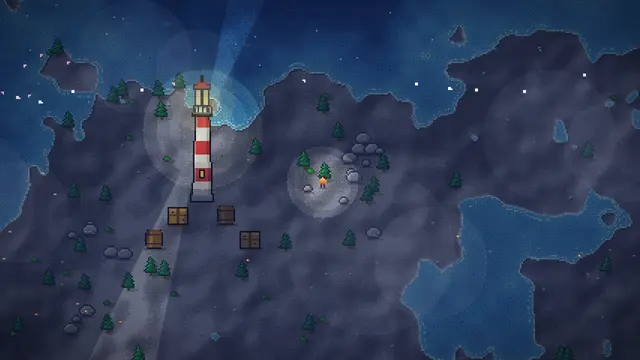
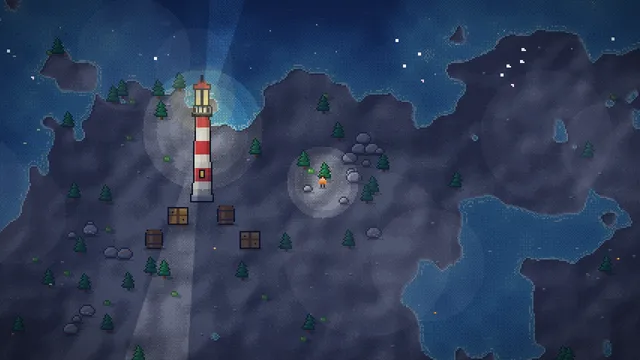
갤러리 Beaconfall 사진 교체와 7장 추가 (#112)

diff --git a/gallery/index.html b/gallery/index.html
@@ -478,7 +478,7 @@ if(document.readyState==='loading') document.addEventListener('DOMContentLoaded'
   <div class="gl-lb" id="glLb" hidden><button type="button" class="x" aria-label="닫기">×</button><button type="button" class="nv p" aria-label="‹">‹</button><img alt=""><div class="cap" data-notr><b></b><p></p></div><button type="button" class="nv n" aria-label="›">›</button></div>
   <script>
   (function(){
-    var D=[{"g": "stickseum", "id": "card-stickseum", "t": {"ko": ["스틱맨 결투", "최대 32명이 한 맵에서 싸우는 실시간 스틱맨 대전이에요."], "en": ["Stickman Duel", "Real-time stickman battles with up to 32 players on one map."], "es": ["Duelo de stickmen", "Batallas de stickmen en tiempo real con hasta 32 jugadores en un mapa."], "fr": ["Duel de bonshommes", "Combats de bonshommes en temps réel, jusqu’à 32 joueurs sur une carte."], "de": ["Strichmännchen-Duell", "Echtzeit-Kämpfe mit bis zu 32 Spielern auf einer Karte."], "ja": ["棒人間の決闘", "最大32人がひとつのマップで戦うリアルタイム対戦です。"]}}, {"g": "stickseum", "id": "stk-14", "t": {"ko": ["궁극기 폭발", "난전 한가운데서 궁극기가 터지는 순간이에요."], "en": ["Ultimate Blast", "An ultimate goes off in the middle of the brawl."], "es": ["Explosión definitiva", "Una habilidad definitiva estalla en plena pelea."], "fr": ["Explosion ultime", "Une capacité ultime explose au milieu de la mêlée."], "de": ["Ultimative Explosion", "Mitten im Getümmel zündet eine Ultimate."], "ja": ["必殺技の爆発", "乱戦のまっただ中で必殺技がはじける瞬間です。"]}}, {"g": "stickseum", "id": "stk-18", "t": {"ko": ["발판 위 공중전", "발판을 오르내리며 총알과 화살이 오가요."], "en": ["Battle on the Platforms", "Bullets and arrows fly as fighters jump between platforms."], "es": ["Batalla en las plataformas", "Balas y flechas vuelan mientras saltan entre plataformas."], "fr": ["Combat sur les plateformes", "Balles et flèches fusent entre les plateformes."], "de": ["Kampf auf den Plattformen", "Zwischen den Plattformen fliegen Kugeln und Pfeile."], "ja": ["足場の上の空中戦", "足場を飛び移りながら弾と矢が飛び交います。"]}}, {"g": "crownenvoy", "id": "ce-map", "t": {"ko": ["유럽 전역 지도", "외교와 전쟁으로 영토를 넓혀 가는 턴제 전략 지도예요."], "en": ["Map of Europe", "The turn-based strategy map where diplomacy and war expand your borders."], "es": ["Mapa de Europa", "El mapa de estrategia por turnos donde la diplomacia y la guerra amplían tus fronteras."], "fr": ["Carte de l’Europe", "La carte de stratégie au tour par tour où diplomatie et guerre étendent vos frontières."], "de": ["Karte Europas", "Die rundenbasierte Strategiekarte, auf der Diplomatie und Krieg deine Grenzen erweitern."], "ja": ["ヨーロッパ全図", "外交と戦争で領土を広げるターン制戦略のマップです。"]}}, {"g": "crownenvoy", "id": "ce-sword", "t": {"ko": ["검의 시대 전투", "칼과 방패를 든 병사들이 정면으로 맞부딪혀요."], "en": ["Battle of the Sword Age", "Soldiers with swords and shields clash head-on."], "es": ["Batalla de la era de la espada", "Soldados con espada y escudo chocan de frente."], "fr": ["Bataille de l’âge de l’épée", "Des soldats armés d’épées et de boucliers s’affrontent de face."], "de": ["Schlacht im Schwertzeitalter", "Soldaten mit Schwert und Schild prallen frontal aufeinander."], "ja": ["剣の時代の戦い", "剣と盾を持った兵士が正面からぶつかります。"]}}, {"g": "crownenvoy", "id": "ce-musket", "t": {"ko": ["머스킷의 시대", "대열을 갖춘 머스킷 병과 대포가 연기를 뿜어요."], "en": ["Age of the Musket", "Musket lines and cannons fill the field with smoke."], "es": ["La era del mosquete", "Filas de mosqueteros y cañones llenan el campo de humo."], "fr": ["L’ère du mousquet", "Lignes de mousquetaires et canons noient le champ de fumée."], "de": ["Zeitalter der Muskete", "Musketenreihen und Kanonen hüllen das Feld in Rauch."], "ja": ["マスケットの時代", "隊列を組んだマスケット兵と大砲が煙を上げます。"]}}, {"g": "crownenvoy", "id": "ce-ww2", "t": {"ko": ["세계대전 전장", "전차와 전투기가 하늘과 땅을 가득 메워요."], "en": ["World War Battlefield", "Tanks and fighter planes fill the land and the sky."], "es": ["Campo de batalla mundial", "Tanques y cazas llenan la tierra y el cielo."], "fr": ["Champ de bataille mondial", "Chars et avions de chasse envahissent la terre et le ciel."], "de": ["Weltkriegs-Schlachtfeld", "Panzer und Jagdflugzeuge füllen Land und Himmel."], "ja": ["世界大戦の戦場", "戦車と戦闘機が空と大地を埋め尽くします。"]}}, {"g": "beaconfall", "id": "card-beaconfall", "t": {"ko": ["섬들의 바다", "여러 섬을 오가며 살아남는 생존 제작 게임의 세계예요."], "en": ["A Sea of Islands", "The world of a survival crafting game where you travel between islands."], "es": ["Un mar de islas", "El mundo de un juego de supervivencia y fabricación entre islas."], "fr": ["Une mer d’îles", "Le monde d’un jeu de survie et d’artisanat d’île en île."], "de": ["Ein Meer aus Inseln", "Die Welt eines Survival-Crafting-Spiels zwischen vielen Inseln."], "ja": ["島々の海", "島から島へ渡って生き延びるサバイバルクラフトの世界です。"]}}, {"g": "beaconfall", "id": "bf-whale", "t": {"ko": ["바다의 고래", "깊은 바다를 천천히 가로지르다가 가끔 떠올라 물줄기를 뿜어요."], "en": ["Whale of the Sea", "It glides slowly through the deep sea and sometimes surfaces to spout water."], "fr": ["Baleine de la mer", "Elle traverse lentement les eaux profondes et remonte parfois pour souffler un jet d'eau."], "de": ["Wal im Meer", "Er gleitet langsam durch die Tiefsee und taucht manchmal auf, um Wasser zu spritzen."], "es": ["Ballena del mar", "Cruza despacio el mar profundo y a veces sale a la superficie para soltar un chorro de agua."], "ja": ["海のクジラ", "深い海をゆっくり泳ぎ、ときどき浮かび上がって潮を吹きます。"]}}, {"g": "beaconfall", "id": "bf-skywhale", "t": {"ko": ["하늘 고래", "구름 위를 헤엄치는 거대한 고래의 그림자가 땅 위로 지나가요."], "en": ["Sky Whale", "The shadow of a huge whale swimming above the clouds passes over the land."], "fr": ["Baleine du ciel", "L'ombre d'une immense baleine nageant au-dessus des nuages glisse sur la terre."], "de": ["Himmelswal", "Der Schatten eines riesigen Wals über den Wolken zieht über das Land."], "es": ["Ballena del cielo", "La sombra de una enorme ballena que nada sobre las nubes pasa sobre la tierra."], "ja": ["空のクジラ", "雲の上を泳ぐ巨大なクジラの影が、大地の上を横切ります。"]}}, {"g": "beaconfall", "id": "bf-temple", "t": {"ko": ["거대한 신전 유적", "높은 기둥 줄과 거인상, 제단이 있는 큰 섬의 신전이에요. 안쪽에 보물 상자가 숨어 있어요."], "en": ["Giant Temple Ruin", "A temple on a large island with rows of tall columns, colossus statues and an altar. A treasure chest hides inside."], "fr": ["Ruine de temple géant", "Un temple sur une grande île, avec des rangées de hautes colonnes, des statues colossales et un autel. Un coffre au trésor y est caché."], "de": ["Riesige Tempelruine", "Ein Tempel auf einer großen Insel mit hohen Säulenreihen, Kolossalstatuen und einem Altar. Drinnen versteckt sich eine Schatztruhe."], "es": ["Ruina de templo gigante", "Un templo en una isla grande con filas de columnas altas, estatuas colosales y un altar. Dentro se esconde un cofre del tesoro."], "ja": ["巨大な神殿の遺跡", "高い柱の列、巨人像、祭壇がある大きな島の神殿です。奥に宝箱が隠れています。"]}}, {"g": "beaconfall", "id": "bf-lighthouse", "t": {"ko": ["등대의 밤", "해안의 등대가 밤마다 빛줄기로 바다를 돌며 비춰요."], "en": ["Lighthouse at Night", "The coastal lighthouse sweeps its beam over the sea every night."], "fr": ["Le phare la nuit", "Le phare de la côte balaie la mer de son faisceau chaque nuit."], "de": ["Leuchtturm bei Nacht", "Der Küstenleuchtturm lässt jede Nacht seinen Lichtstrahl über das Meer streichen."], "es": ["El faro de noche", "El faro de la costa barre el mar con su haz de luz cada noche."], "ja": ["夜の灯台", "海岸の灯台が、夜になると光の筋で海を回って照らします。"]}}, {"g": "beaconfall", "id": "bf-volcano", "t": {"ko": ["화산 분출", "땅이 울린 뒤 화산재 기둥과 용암 덩어리가 솟아올라요."], "en": ["Volcano Eruption", "After the ground rumbles, an ash column and lava bombs shoot into the sky."], "fr": ["Éruption volcanique", "Après un grondement du sol, une colonne de cendres et des bombes de lave jaillissent."], "de": ["Vulkanausbruch", "Nach einem Beben steigen eine Aschesäule und Lavabomben empor."], "es": ["Erupción volcánica", "Tras el temblor del suelo, una columna de ceniza y bombas de lava salen disparadas."], "ja": ["火山の噴火", "地鳴りのあと、火山灰の柱と溶岩の塊が噴き上がります。"]}}, {"g": "beaconfall", "id": "bf-fossil", "t": {"ko": ["고래 뼈 화석", "사막 섬에 묻혀 있던 거대한 고래의 뼈예요."], "en": ["Whale Fossil", "The bones of a giant whale buried on a desert island."], "fr": ["Fossile de baleine", "Les os d'une baleine géante enfouis sur une île désertique."], "de": ["Wal-Fossil", "Die Knochen eines Riesenwals, begraben auf einer Wüsteninsel."], "es": ["Fósil de ballena", "Los huesos de una ballena gigante enterrados en una isla desértica."], "ja": ["クジラの化石", "砂漠の島に埋まっていた巨大なクジラの骨です。"]}}, {"g": "beaconfall", "id": "bf-parts", "t": {"ko": ["대형 건축 부품", "대형 기둥, 아치문, 첨탑, 석재벽돌로 지은 성문이에요."], "en": ["Large Building Parts", "A castle gate built from great pillars, archways, spires and stone bricks."], "fr": ["Grandes pièces de construction", "Une porte de château bâtie avec de grands piliers, des arches, des flèches et des briques de pierre."], "de": ["Große Bauteile", "Ein Burgtor aus großen Pfeilern, Torbögen, Turmspitzen und Steinziegeln."], "es": ["Piezas de construcción grandes", "Una puerta de castillo hecha con grandes pilares, arcos, agujas y ladrillos de piedra."], "ja": ["大型の建築パーツ", "大きな柱、アーチ門、尖塔、石レンガで建てた城門です。"]}}], N={"stickseum": "Stickseum", "crownenvoy": "Crown Envoy", "beaconfall": "Beaconfall"};
+    var D=[{"g": "stickseum", "id": "card-stickseum", "t": {"ko": ["스틱맨 결투", "최대 32명이 한 맵에서 싸우는 실시간 스틱맨 대전이에요."], "en": ["Stickman Duel", "Real-time stickman battles with up to 32 players on one map."], "es": ["Duelo de stickmen", "Batallas de stickmen en tiempo real con hasta 32 jugadores en un mapa."], "fr": ["Duel de bonshommes", "Combats de bonshommes en temps réel, jusqu’à 32 joueurs sur une carte."], "de": ["Strichmännchen-Duell", "Echtzeit-Kämpfe mit bis zu 32 Spielern auf einer Karte."], "ja": ["棒人間の決闘", "最大32人がひとつのマップで戦うリアルタイム対戦です。"]}}, {"g": "stickseum", "id": "stk-14", "t": {"ko": ["궁극기 폭발", "난전 한가운데서 궁극기가 터지는 순간이에요."], "en": ["Ultimate Blast", "An ultimate goes off in the middle of the brawl."], "es": ["Explosión definitiva", "Una habilidad definitiva estalla en plena pelea."], "fr": ["Explosion ultime", "Une capacité ultime explose au milieu de la mêlée."], "de": ["Ultimative Explosion", "Mitten im Getümmel zündet eine Ultimate."], "ja": ["必殺技の爆発", "乱戦のまっただ中で必殺技がはじける瞬間です。"]}}, {"g": "stickseum", "id": "stk-18", "t": {"ko": ["발판 위 공중전", "발판을 오르내리며 총알과 화살이 오가요."], "en": ["Battle on the Platforms", "Bullets and arrows fly as fighters jump between platforms."], "es": ["Batalla en las plataformas", "Balas y flechas vuelan mientras saltan entre plataformas."], "fr": ["Combat sur les plateformes", "Balles et flèches fusent entre les plateformes."], "de": ["Kampf auf den Plattformen", "Zwischen den Plattformen fliegen Kugeln und Pfeile."], "ja": ["足場の上の空中戦", "足場を飛び移りながら弾と矢が飛び交います。"]}}, {"g": "crownenvoy", "id": "ce-map", "t": {"ko": ["유럽 전역 지도", "외교와 전쟁으로 영토를 넓혀 가는 턴제 전략 지도예요."], "en": ["Map of Europe", "The turn-based strategy map where diplomacy and war expand your borders."], "es": ["Mapa de Europa", "El mapa de estrategia por turnos donde la diplomacia y la guerra amplían tus fronteras."], "fr": ["Carte de l’Europe", "La carte de stratégie au tour par tour où diplomatie et guerre étendent vos frontières."], "de": ["Karte Europas", "Die rundenbasierte Strategiekarte, auf der Diplomatie und Krieg deine Grenzen erweitern."], "ja": ["ヨーロッパ全図", "外交と戦争で領土を広げるターン制戦略のマップです。"]}}, {"g": "crownenvoy", "id": "ce-sword", "t": {"ko": ["검의 시대 전투", "칼과 방패를 든 병사들이 정면으로 맞부딪혀요."], "en": ["Battle of the Sword Age", "Soldiers with swords and shields clash head-on."], "es": ["Batalla de la era de la espada", "Soldados con espada y escudo chocan de frente."], "fr": ["Bataille de l’âge de l’épée", "Des soldats armés d’épées et de boucliers s’affrontent de face."], "de": ["Schlacht im Schwertzeitalter", "Soldaten mit Schwert und Schild prallen frontal aufeinander."], "ja": ["剣の時代の戦い", "剣と盾を持った兵士が正面からぶつかります。"]}}, {"g": "crownenvoy", "id": "ce-musket", "t": {"ko": ["머스킷의 시대", "대열을 갖춘 머스킷 병과 대포가 연기를 뿜어요."], "en": ["Age of the Musket", "Musket lines and cannons fill the field with smoke."], "es": ["La era del mosquete", "Filas de mosqueteros y cañones llenan el campo de humo."], "fr": ["L’ère du mousquet", "Lignes de mousquetaires et canons noient le champ de fumée."], "de": ["Zeitalter der Muskete", "Musketenreihen und Kanonen hüllen das Feld in Rauch."], "ja": ["マスケットの時代", "隊列を組んだマスケット兵と大砲が煙を上げます。"]}}, {"g": "crownenvoy", "id": "ce-ww2", "t": {"ko": ["세계대전 전장", "전차와 전투기가 하늘과 땅을 가득 메워요."], "en": ["World War Battlefield", "Tanks and fighter planes fill the land and the sky."], "es": ["Campo de batalla mundial", "Tanques y cazas llenan la tierra y el cielo."], "fr": ["Champ de bataille mondial", "Chars et avions de chasse envahissent la terre et le ciel."], "de": ["Weltkriegs-Schlachtfeld", "Panzer und Jagdflugzeuge füllen Land und Himmel."], "ja": ["世界大戦の戦場", "戦車と戦闘機が空と大地を埋め尽くします。"]}}, {"g": "beaconfall", "id": "card-beaconfall", "t": {"ko": ["섬들의 바다", "여러 섬을 오가며 살아남는 생존 제작 게임의 세계예요."], "en": ["A Sea of Islands", "The world of a survival crafting game where you travel between islands."], "es": ["Un mar de islas", "El mundo de un juego de supervivencia y fabricación entre islas."], "fr": ["Une mer d’îles", "Le monde d’un jeu de survie et d’artisanat d’île en île."], "de": ["Ein Meer aus Inseln", "Die Welt eines Survival-Crafting-Spiels zwischen vielen Inseln."], "ja": ["島々の海", "島から島へ渡って生き延びるサバイバルクラフトの世界です。"]}}, {"g": "beaconfall", "id": "bf-sky-fortress", "t": {"ko": ["하늘 요새", "열기구를 타고 노을 속에 떠 있는 요새로 향해요."], "en": ["Sky Fortress", "A hot-air balloon heads for the fortress floating in the sunset."], "es": ["Fortaleza del cielo", "Un globo aerostático se dirige a la fortaleza que flota en el atardecer."], "fr": ["Forteresse céleste", "Une montgolfière file vers la forteresse flottant dans le couchant."], "de": ["Himmelsfestung", "Ein Heißluftballon fliegt auf die im Abendrot schwebende Festung zu."], "ja": ["空の要塞", "気球に乗って、夕焼けに浮かぶ要塞へ向かいます。"]}}, {"g": "beaconfall", "id": "bf-fortress-dock", "t": {"ko": ["하늘 요새 정문", "열기구에서 내리면 요새의 정문과 선착장이 나와요."], "en": ["Fortress Gate", "Step off the balloon to find the fortress gate and its dock."], "es": ["Puerta de la fortaleza", "Al bajar del globo aparecen la puerta de la fortaleza y su muelle."], "fr": ["Porte de la forteresse", "En descendant de la montgolfière, on trouve la porte et le quai de la forteresse."], "de": ["Festungstor", "Nach dem Ballon erreicht man das Tor der Festung und ihren Anleger."], "ja": ["要塞の正門", "気球を降りると、要塞の正門と船着き場があります。"]}}, {"g": "beaconfall", "id": "bf-fortress-hall", "t": {"ko": ["요새의 큰 홀", "스테인드글라스와 깃발, 크리스털이 늘어선 하늘 요새의 홀이에요."], "en": ["Great Hall of the Fortress", "The sky fortress hall lined with stained glass, banners and crystals."], "es": ["Gran salón de la fortaleza", "El salón de la fortaleza del cielo, con vidrieras, estandartes y cristales."], "fr": ["Grande salle de la forteresse", "La salle de la forteresse céleste, ornée de vitraux, de bannières et de cristaux."], "de": ["Große Halle der Festung", "Die Halle der Himmelsfestung mit Buntglas, Fahnen und Kristallen."], "ja": ["要塞の大広間", "ステンドグラスと旗、クリスタルが並ぶ空の要塞の広間です。"]}}, {"g": "beaconfall", "id": "bf-ruin-palace", "t": {"ko": ["폐허 섬의 옛 궁전", "덩굴과 쓰러진 기둥 사이로 깃발과 옥좌가 남은 안뜰이에요."], "en": ["Old Palace of Ruin Island", "A courtyard where a throne and banners remain among vines and fallen pillars."], "es": ["Antiguo palacio de la isla en ruinas", "Un patio donde quedan un trono y estandartes entre enredaderas y columnas caídas."], "fr": ["Ancien palais de l’île en ruine", "Une cour où subsistent un trône et des bannières parmi les lianes et les piliers brisés."], "de": ["Alter Palast der Ruineninsel", "Ein Innenhof, in dem zwischen Ranken und umgestürzten Säulen Thron und Fahnen stehen."], "ja": ["廃墟島の古い宮殿", "つると倒れた柱の間に、旗と玉座が残る中庭です。"]}}, {"g": "beaconfall", "id": "bf-ruin-village", "t": {"ko": ["폐허 마을", "지붕 없이 허물어진 집들이 이른 아침 햇살에 드러나요."], "en": ["Ruined Village", "Roofless, crumbled houses lit by the early morning sun."], "es": ["Aldea en ruinas", "Casas derruidas y sin techo bajo el sol de la mañana."], "fr": ["Village en ruine", "Des maisons effondrées, sans toit, sous le soleil du petit matin."], "de": ["Ruinendorf", "Eingestürzte Häuser ohne Dach im frühen Morgenlicht."], "ja": ["廃墟の村", "屋根のない崩れた家々が、早朝の光に浮かびます。"]}}, {"g": "beaconfall", "id": "bf-skyisle", "t": {"ko": ["하늘 섬", "깊은 하늘 한가운데 작은 섬이 떠 있어요."], "en": ["Sky Island", "A tiny island floats in the middle of the deep sky."], "es": ["Isla del cielo", "Una pequeña isla flota en medio del cielo profundo."], "fr": ["Île céleste", "Une petite île flotte au beau milieu du ciel profond."], "de": ["Himmelsinsel", "Mitten im tiefen Himmel schwebt eine kleine Insel."], "ja": ["空の島", "深い空のまん中に小さな島が浮かんでいます。"]}}, {"g": "beaconfall", "id": "bf-autumn", "t": {"ko": ["가을 숲", "계절이 바뀌면 숲도 단풍으로 물들어요."], "en": ["Autumn Forest", "When the season turns, the forest takes on autumn colors."], "es": ["Bosque de otoño", "Al cambiar la estación, el bosque se tiñe de otoño."], "fr": ["Forêt d’automne", "Quand la saison change, la forêt prend les couleurs de l’automne."], "de": ["Herbstwald", "Wenn die Jahreszeit wechselt, färbt sich der Wald herbstlich."], "ja": ["秋の森", "季節が変わると、森も紅葉に染まります。"]}}, {"g": "beaconfall", "id": "bf-whale", "t": {"ko": ["바다의 고래", "깊은 바다를 천천히 가로지르다가 가끔 떠올라 물줄기를 뿜어요."], "en": ["Whale of the Sea", "It glides slowly through the deep sea and sometimes surfaces to spout water."], "fr": ["Baleine de la mer", "Elle traverse lentement les eaux profondes et remonte parfois pour souffler un jet d'eau."], "de": ["Wal im Meer", "Er gleitet langsam durch die Tiefsee und taucht manchmal auf, um Wasser zu spritzen."], "es": ["Ballena del mar", "Cruza despacio el mar profundo y a veces sale a la superficie para soltar un chorro de agua."], "ja": ["海のクジラ", "深い海をゆっくり泳ぎ、ときどき浮かび上がって潮を吹きます。"]}}, {"g": "beaconfall", "id": "bf-skywhale", "t": {"ko": ["하늘 고래", "구름 위를 헤엄치는 거대한 고래의 그림자가 땅 위로 지나가요."], "en": ["Sky Whale", "The shadow of a huge whale swimming above the clouds passes over the land."], "fr": ["Baleine du ciel", "L'ombre d'une immense baleine nageant au-dessus des nuages glisse sur la terre."], "de": ["Himmelswal", "Der Schatten eines riesigen Wals über den Wolken zieht über das Land."], "es": ["Ballena del cielo", "La sombra de una enorme ballena que nada sobre las nubes pasa sobre la tierra."], "ja": ["空のクジラ", "雲の上を泳ぐ巨大なクジラの影が、大地の上を横切ります。"]}}, {"g": "beaconfall", "id": "bf-temple", "t": {"ko": ["거대한 신전 유적", "높은 기둥 줄과 거인상, 제단이 있는 큰 섬의 신전이에요. 안쪽에 보물 상자가 숨어 있어요."], "en": ["Giant Temple Ruin", "A temple on a large island with rows of tall columns, colossus statues and an altar. A treasure chest hides inside."], "fr": ["Ruine de temple géant", "Un temple sur une grande île, avec des rangées de hautes colonnes, des statues colossales et un autel. Un coffre au trésor y est caché."], "de": ["Riesige Tempelruine", "Ein Tempel auf einer großen Insel mit hohen Säulenreihen, Kolossalstatuen und einem Altar. Drinnen versteckt sich eine Schatztruhe."], "es": ["Ruina de templo gigante", "Un templo en una isla grande con filas de columnas altas, estatuas colosales y un altar. Dentro se esconde un cofre del tesoro."], "ja": ["巨大な神殿の遺跡", "高い柱の列、巨人像、祭壇がある大きな島の神殿です。奥に宝箱が隠れています。"]}}, {"g": "beaconfall", "id": "bf-lighthouse", "t": {"ko": ["등대의 밤", "해안의 등대가 밤마다 빛줄기로 바다를 돌며 비춰요."], "en": ["Lighthouse at Night", "The coastal lighthouse sweeps its beam over the sea every night."], "fr": ["Le phare la nuit", "Le phare de la côte balaie la mer de son faisceau chaque nuit."], "de": ["Leuchtturm bei Nacht", "Der Küstenleuchtturm lässt jede Nacht seinen Lichtstrahl über das Meer streichen."], "es": ["El faro de noche", "El faro de la costa barre el mar con su haz de luz cada noche."], "ja": ["夜の灯台", "海岸の灯台が、夜になると光の筋で海を回って照らします。"]}}, {"g": "beaconfall", "id": "bf-volcano", "t": {"ko": ["화산 분출", "땅이 울린 뒤 화산재 기둥과 용암 덩어리가 솟아올라요."], "en": ["Volcano Eruption", "After the ground rumbles, an ash column and lava bombs shoot into the sky."], "fr": ["Éruption volcanique", "Après un grondement du sol, une colonne de cendres et des bombes de lave jaillissent."], "de": ["Vulkanausbruch", "Nach einem Beben steigen eine Aschesäule und Lavabomben empor."], "es": ["Erupción volcánica", "Tras el temblor del suelo, una columna de ceniza y bombas de lava salen disparadas."], "ja": ["火山の噴火", "地鳴りのあと、火山灰の柱と溶岩の塊が噴き上がります。"]}}, {"g": "beaconfall", "id": "bf-fossil", "t": {"ko": ["고래 뼈 화석", "사막 섬에 묻혀 있던 거대한 고래의 뼈예요."], "en": ["Whale Fossil", "The bones of a giant whale buried on a desert island."], "fr": ["Fossile de baleine", "Les os d'une baleine géante enfouis sur une île désertique."], "de": ["Wal-Fossil", "Die Knochen eines Riesenwals, begraben auf einer Wüsteninsel."], "es": ["Fósil de ballena", "Los huesos de una ballena gigante enterrados en una isla desértica."], "ja": ["クジラの化石", "砂漠の島に埋まっていた巨大なクジラの骨です。"]}}, {"g": "beaconfall", "id": "bf-parts", "t": {"ko": ["대형 건축 부품", "대형 기둥, 아치문, 첨탑, 석재벽돌로 지은 성문이에요."], "en": ["Large Building Parts", "A castle gate built from great pillars, archways, spires and stone bricks."], "fr": ["Grandes pièces de construction", "Une porte de château bâtie avec de grands piliers, des arches, des flèches et des briques de pierre."], "de": ["Große Bauteile", "Ein Burgtor aus großen Pfeilern, Torbögen, Turmspitzen und Steinziegeln."], "es": ["Piezas de construcción grandes", "Una puerta de castillo hecha con grandes pilares, arcos, agujas y ladrillos de piedra."], "ja": ["大型の建築パーツ", "大きな柱、アーチ門、尖塔、石レンガで建てた城門です。"]}}], N={"stickseum": "Stickseum", "crownenvoy": "Crown Envoy", "beaconfall": "Beaconfall"};
     var l=(document.documentElement.lang||'ko').slice(0,2); if(!/^(ko|en|es|fr|de|ja)$/.test(l)) l='en';
     var grid=document.getElementById('glGrid'), lb=document.getElementById('glLb'), cur=[], at=0;
     function tt(x){ return x.t[l]||x.t.en; }
